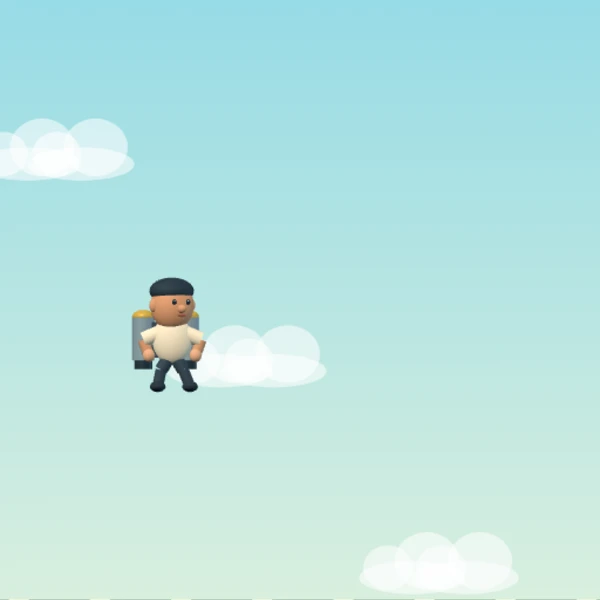
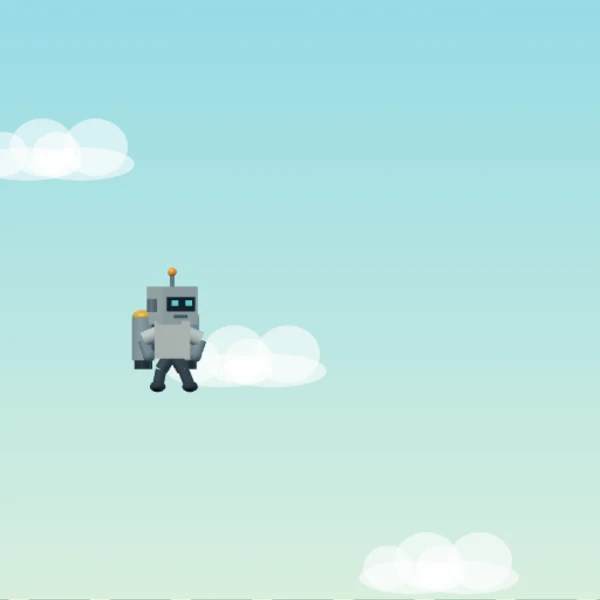
ロボットの四肢を爆散させ左右の画面端の衝突をなくす

Changed region(s): [[0.21, 0.45, 0.36, 0.6]]

diff --git a/games/_koe-balloon/scene3d.js b/games/_koe-balloon/scene3d.js
@@ -27,26 +27,25 @@
     };
     this.person=new T.Group();this.scene.add(this.person);
     var p=this.person;
-    this.body=this.part(p,this.ball,0xfff3d9,0,-8,0,18,22,12);
+    this.body=this.part(p,this.box,0xc3d2db,0,-8,0,32,34,25,true);
     this.head=new T.Group();p.add(this.head);
-    this.face=this.part(this.head,this.ball,0xe7a67d,0,0,0,20,23,18);
-    this.skin=this.face.material;this.skinBase=new T.Color(0xe7a67d);this.skinRed=new T.Color(0xee373d);
-    this.part(this.head,this.ball,0x253b4b,0,13,-1,20.5,12,18.5);
-    this.part(this.head,this.ball,0xe7a67d,0,-3,18,4,4,5);
+    this.face=this.part(this.head,this.box,0xb1c7d2,0,0,0,36,34,30,true);
+    this.skin=this.face.material;this.skinBase=new T.Color(0xb1c7d2);
+    this.part(this.head,this.box,0x182f40,0,1,16,28,13,3,true);
     [-1,1].forEach(function(side){
-      self.part(self.head,self.ball,0xe7a67d,side*19,0,0,4,6,4);
-      self.part(self.head,self.ball,0x162d3d,side*7,3,17,2,2.5,2);
-      self.part(self.head,self.ball,0xffffff,side*7-.5,4,18.5,.65,.7,.6);
+      self.part(self.head,self.box,0x78f4ff,side*7,2,18,6,5,2);
+      self.part(self.head,self.tube,0x647f93,side*20,0,0,5,12,5,true);
     });
-    this.cheeks=[-1,1].map(function(side){return self.part(self.head,self.ball,0xe7a67d,side*12,-6,14,6,6,5);});
-    this.mouth=this.part(this.head,this.ball,0xa86156,0,-9,18,4,1.4,1);
+    this.part(this.head,this.tube,0x718b9d,0,23,0,2,12,2,true);
+    this.part(this.head,this.ball,0xffaa42,0,30,0,4,4,4,true);
+    this.cheeks=[];this.mouth=this.part(this.head,this.box,0x4a677a,0,-10,16,13,3,2);
     this.joints=[];
     // 上腕・前腕・太もも・すねを、それぞれ別の関節でつなぐ。
-    [[1,3,7,0xfff3d9],[3,4,5,0xe7a67d],[1,5,7,0xfff3d9],[5,6,5,0xe7a67d],
+    [[1,3,7,0xb5c7d1],[3,4,5,0x829bac],[1,5,7,0xb5c7d1],[5,6,5,0x829bac],
      [0,7,6,0x314858],[7,8,5,0x314858],[0,9,6,0x314858],[9,10,5,0x314858]].forEach(function(v){
       self.joints.push({a:v[0],b:v[1],mesh:self.part(p,self.tube,v[3],0,0,0,v[2],1,v[2])});
     });
-    this.hands=[4,6].map(function(i){return {index:i,mesh:self.part(p,self.ball,0xf0b792,0,0,3,5.5,6,5.5)};});
+    this.hands=[4,6].map(function(i){return {index:i,mesh:self.part(p,self.ball,0x71899b,0,0,3,5.5,6,5.5)};});
     this.feet=[8,10].map(function(i){return {index:i,mesh:self.part(p,self.ball,0x243846,0,0,3,7,5,10)};});
     this.pack=new T.Group();p.add(this.pack);
     this.part(this.pack,this.box,0x405365,-8,0,-13,34,32,18,true);
@@ -63,7 +62,7 @@
     });
     this.up=new T.Vector3(0,1,0);
     this.fragments=[];
-    for(var i=0;i<12;i++)this.fragments.push(this.part(this.scene,new T.TetrahedronGeometry(1),0xffba58,0,0,0,5,9,2,true));
+    for(var i=0;i<36;i++)this.fragments.push(this.part(this.scene,new T.TetrahedronGeometry(1),0xffba58,0,0,0,5,9,2,true));
     this.gateModels=[];this.ghostModels=[];this.blastModels=[];
   }
   BalloonScene.prototype.makeGate=function(){
@@ -99,14 +98,14 @@
     var pts=s.doll?s.doll.points:s.pose.map(function(p){return {x:p[0],y:p[1]};});
     function local(i){return new global.THREE.Vector3(pts[i].x-155,s.y-pts[i].y,0);}
     var hips=local(0),shoulder=local(1),head=local(2),bodyDirection=shoulder.clone().sub(hips);
-    this.body.position.copy(hips).add(shoulder).multiplyScalar(.5);
-    this.body.quaternion.setFromUnitVectors(this.up,bodyDirection.normalize());
+    this.body.position.copy(hips);if(!s.doll)this.body.position.add(shoulder).multiplyScalar(.5);
+    if(s.doll)this.body.rotation.set(s.fallTime*5,s.fallTime*4,s.fallTime*3);else this.body.quaternion.setFromUnitVectors(this.up,bodyDirection.normalize());
     this.head.position.copy(head);
-    this.head.rotation.set(s.doll?-.1:0,.5,s.doll?-Math.atan2(pts[2].x-pts[1].x,pts[1].y-pts[2].y):0);
+    this.head.rotation.set(s.doll?s.fallTime*7:0,.5,s.doll?s.fallTime*5:0);
     this.skin.color.copy(this.skinBase);
     this.cheeks.forEach(function(m){m.scale.set(0,0,0);});
     var self=this;
-    this.joints.forEach(function(j){var a=local(j.a),b=local(j.b),d=b.clone().sub(a);j.mesh.position.copy(a).add(b).multiplyScalar(.5);j.mesh.scale.y=d.length();j.mesh.quaternion.setFromUnitVectors(self.up,d.normalize());});
+    this.joints.forEach(function(j){if(s.doll){j.mesh.position.copy(local(j.b));j.mesh.scale.y=18;j.mesh.rotation.set(s.fallTime*(j.b-4),0,s.fallTime*(j.b-2));return;}var a=local(j.a),b=local(j.b),d=b.clone().sub(a);j.mesh.position.copy(a).add(b).multiplyScalar(.5);j.mesh.scale.y=d.length();j.mesh.quaternion.setFromUnitVectors(self.up,d.normalize());});
     this.hands.concat(this.feet).forEach(function(p){p.mesh.position.copy(local(p.index));p.mesh.position.z=3;});
     this.pack.position.copy(this.body.position);
     this.pack.quaternion.copy(this.body.quaternion);
@@ -117,10 +116,10 @@
       f.core.scale.y=length*.58;f.core.position.y=-26-length*.29;
     });
     this.fragments.forEach(function(m,i){
-      m.visible=!!s.doll&&s.fallTime<.65;if(!m.visible)return;
-      var angle=i*Math.PI*2/12,t=s.fallTime;
-      m.position.set(s.burst.x+Math.cos(angle)*(s.burst.r+180*t),-s.burst.y+Math.sin(angle)*(s.burst.r+180*t)-220*t*t,Math.sin(i)*20);
-      m.rotation.set(i+t*8,i*.4+t*12,t*10);m.scale.setScalar(Math.max(.01,1-t/.65)*6);
+      m.visible=!!s.doll&&s.fallTime<1.1;if(!m.visible)return;
+      var angle=i*2.399,t=s.fallTime;
+      m.position.set(s.burst.x+Math.cos(angle)*(s.burst.r+(220+i%5*70)*t),-s.burst.y+Math.sin(angle)*(s.burst.r+180*t)-220*t*t,Math.sin(i)*20);
+      m.rotation.set(i+t*8,i*.4+t*12,t*10);m.scale.setScalar(Math.max(.01,1-t/1.1)*6);
     });
     while(this.gateModels.length<s.gates.length)this.gateModels.push(this.makeGate());
     this.gateModels.forEach(function(m,i){
@@ -146,7 +145,7 @@
       var material=new global.THREE.MeshBasicMaterial({color:0xffb54c,transparent:true,opacity:.5,depthWrite:false});
       var blast=new global.THREE.Mesh(this.ball,material);this.scene.add(blast);this.blastModels.push(blast);
     }
-    this.blastModels.forEach(function(m,i){var e=blasts[i];m.visible=!!e;if(!e)return;m.position.set(e.x-s.scroll,-e.y,35);m.scale.setScalar(25+e.age*170);m.material.opacity=Math.max(0,.6-e.age);});
+    this.blastModels.forEach(function(m,i){var e=blasts[i];m.visible=!!e;if(!e)return;m.position.set(e.x-s.scroll,-e.y,35);m.scale.set(25+e.age*230,25+e.age*230,15+e.age*30);m.material.opacity=Math.max(0,.6-e.age);});
     this.renderer.render(this.scene,this.camera);
     ctx.drawImage(this.renderer.domElement,0,0,s.W,s.H);
   };

diff --git a/games/_koe-balloon/index.html b/games/_koe-balloon/index.html
@@ -239,10 +239,10 @@
   function popBalloon(){
     if(state!==S.PLAY)return;
     saveAttempt();carve(155+T*RUN_SPEED,py);explosions.push({x:155+T*RUN_SPEED,y:py,age:0});stopReplay();
-    state=S.FALL;held=false;level=0;fallTime=0;fallAccumulator=0;noiseHit(.12,1300,.13);
+    state=S.FALL;held=false;level=0;fallTime=0;fallAccumulator=0;noiseHit(.45,180,.2);tone(95,.35,.12,"sawtooth",28);
     burst={x:140,y:py+5,r:15};
-    var points=pose().map(function(p,i){var vx=-85+(i%3)*70,vv=vy-80+(i%4)*25;return {x:p[0],y:p[1],ox:p[0]-vx/120,oy:p[1]-vv/120};});
-    var pairs=[[0,1],[1,2],[1,3],[3,4],[1,5],[5,6],[0,7],[7,8],[0,9],[9,10],[3,5],[7,9]];
+    var points=pose().map(function(p,i){var angle=i*2.399,force=240+(i%4)*90,vx=Math.cos(angle)*force,vv=vy*.25+Math.sin(angle)*force-180;return {x:p[0],y:p[1],ox:p[0]-vx/120,oy:p[1]-vv/120};});
+    var pairs=[]; // 爆発後は部品同士をつながず、独立して飛ばす。
     doll={points:points,links:pairs.map(function(a){var x=points[a[0]],y=points[a[1]];return {a:a[0],b:a[1],length:Math.hypot(x.x-y.x,x.y-y.y)};})};
   }
   function fallStep(dt){
@@ -255,7 +255,7 @@
       for(var pass=0;pass<10;pass++){
         doll.links.forEach(function(l){var a=doll.points[l.a],b=doll.points[l.b],dx=b.x-a.x,dy=b.y-a.y,d=Math.hypot(dx,dy)||1,k=(d-l.length)/d*.5;a.x+=dx*k;a.y+=dy*k;b.x-=dx*k;b.y-=dy*k;});
         doll.points.forEach(function(p,i){var r=i===2?20:6;
-          p.x=Math.max(r,Math.min(W-r,p.x));
+
 
           gates.forEach(function(g){
             if(!pillarHit(p.x,p.y,r,r,g))return;

diff --git a/games/_tools/tests/koe-balloon-retry-mic.js b/games/_tools/tests/koe-balloon-retry-mic.js
@@ -1,6 +1,6 @@
 const assert=require('assert'),load=require('../harness');
 const g=load('games/_koe-balloon/index.html',{inject:
-"window.__dbg={setup:function(get){window.navigator.mediaDevices={getUserMedia:get};AC={createAnalyser:function(){return {fftSize:1024,getFloatTimeDomainData:function(a){a.fill(.09);}};},createMediaStreamSource:function(){return {connect:function(){},disconnect:function(){}};}};},request:requestMic,crash:popBalloon,stop:stopMic};"});
+"window.__dbg={setup:function(get){tone=function(){};window.navigator.mediaDevices={getUserMedia:get};AC={createAnalyser:function(){return {fftSize:1024,getFloatTimeDomainData:function(a){a.fill(.09);}};},createMediaStreamSource:function(){return {connect:function(){},disconnect:function(){}};}};},request:requestMic,crash:popBalloon,stop:stopMic};"});
 (async()=>{
  let requests=0,stops=0;g.dbg.setup(async()=>{requests++;return {getTracks:()=>[{stop(){stops++;}}]};});
  g.probe.reset();await g.dbg.request();

diff --git a/games/_tools/tests/koe-balloon-rules.js b/games/_tools/tests/koe-balloon-rules.js
@@ -10,4 +10,6 @@ for(let i=0;i<12;i++){g.dbg.crash();g.step(91);}
 assert.equal(g.probe.now().historyCount,10,'記録は直近10回まで');
 console.log('即時噴射・落下・爆発による削れ・先行する履歴・10回の上限を確認');
 
-const bottom=load('games/_koe-balloon/index.html',{inject:'window.__dbg={fall:function(){newRound();py=H-10;vy=200;popBalloon();}};'});bottom.dbg.fall();bottom.step(60);assert(bottom.probe.now().doll.every(p=>p.y>bottom.probe.now().H),'下端を越えて落ち続ける');
+const bottom=load('games/_koe-balloon/index.html',{inject:'window.__dbg={fall:function(){newRound();py=H-10;vy=200;popBalloon();}};'});bottom.dbg.fall();bottom.step(60);assert(bottom.probe.now().doll[0].y>bottom.probe.now().H,'下端を越えて落ち続ける');
+
+assert(bottom.probe.now().doll.some(p=>p.x<0||p.x>bottom.probe.now().W),'左右の画面端でも部品を止めない');
